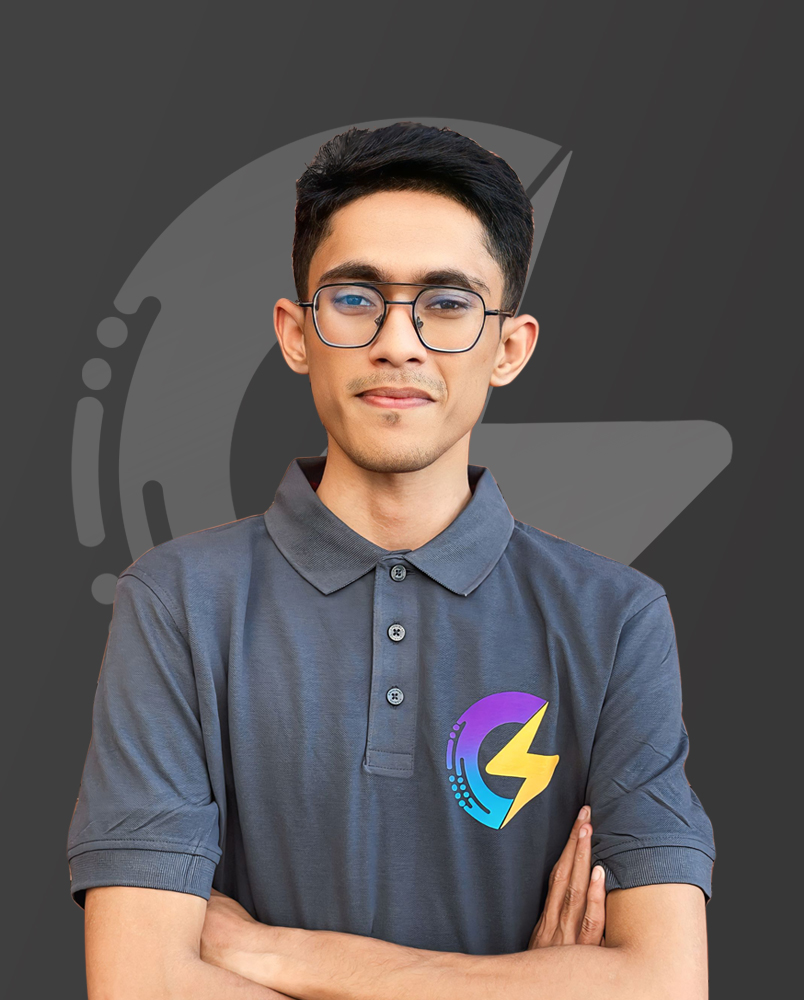
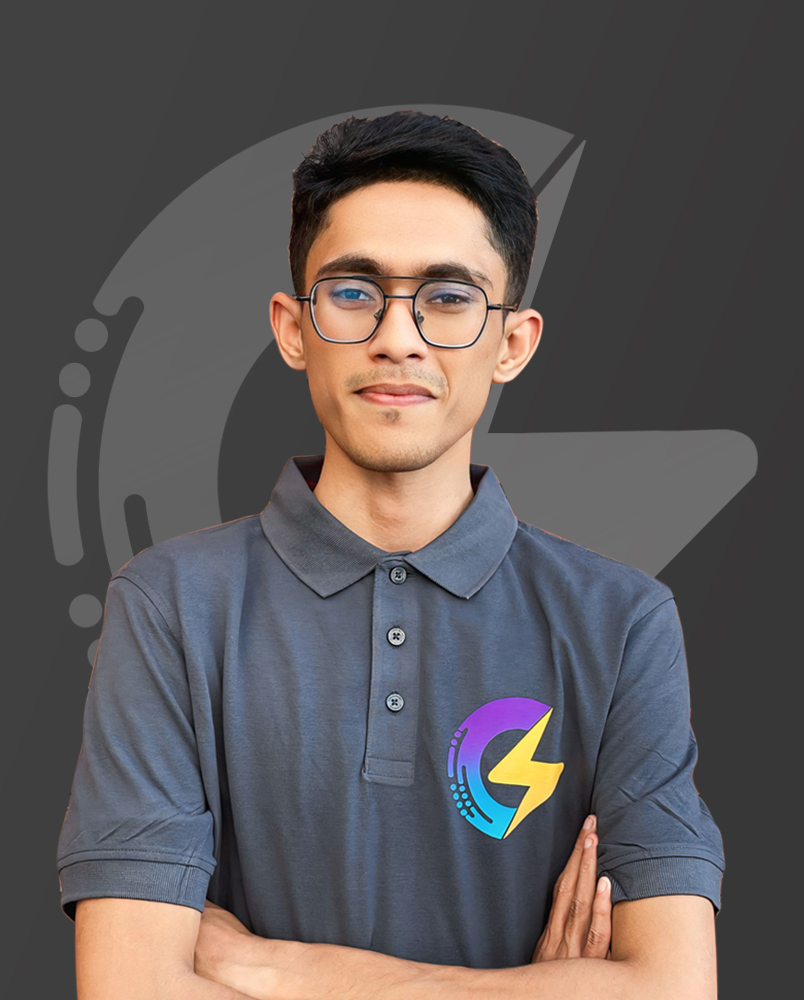
add hover gredient

diff --git a/src/components/ui/carousel.jsx b/src/components/ui/carousel.jsx
@@ -1,0 +1,193 @@
+import * as React from "react"
+import useEmblaCarousel from "embla-carousel-react";
+import { ArrowLeft, ArrowRight } from "lucide-react"
+
+import { cn } from "@/lib/utils"
+import { Button } from "@/components/ui/button"
+
+const CarouselContext = React.createContext(null)
+
+function useCarousel() {
+  const context = React.useContext(CarouselContext)
+
+  if (!context) {
+    throw new Error("useCarousel must be used within a <Carousel />")
+  }
+
+  return context
+}
+
+const Carousel = React.forwardRef((
+  {
+    orientation = "horizontal",
+    opts,
+    setApi,
+    plugins,
+    className,
+    children,
+    ...props
+  },
+  ref
+) => {
+  const [carouselRef, api] = useEmblaCarousel({
+    ...opts,
+    axis: orientation === "horizontal" ? "x" : "y",
+  }, plugins)
+  const [canScrollPrev, setCanScrollPrev] = React.useState(false)
+  const [canScrollNext, setCanScrollNext] = React.useState(false)
+
+  const onSelect = React.useCallback((api) => {
+    if (!api) {
+      return
+    }
+
+    setCanScrollPrev(api.canScrollPrev())
+    setCanScrollNext(api.canScrollNext())
+  }, [])
+
+  const scrollPrev = React.useCallback(() => {
+    api?.scrollPrev()
+  }, [api])
+
+  const scrollNext = React.useCallback(() => {
+    api?.scrollNext()
+  }, [api])
+
+  const handleKeyDown = React.useCallback((event) => {
+    if (event.key === "ArrowLeft") {
+      event.preventDefault()
+      scrollPrev()
+    } else if (event.key === "ArrowRight") {
+      event.preventDefault()
+      scrollNext()
+    }
+  }, [scrollPrev, scrollNext])
+
+  React.useEffect(() => {
+    if (!api || !setApi) {
+      return
+    }
+
+    setApi(api)
+  }, [api, setApi])
+
+  React.useEffect(() => {
+    if (!api) {
+      return
+    }
+
+    onSelect(api)
+    api.on("reInit", onSelect)
+    api.on("select", onSelect)
+
+    return () => {
+      api?.off("select", onSelect)
+    };
+  }, [api, onSelect])
+
+  return (
+    (<CarouselContext.Provider
+      value={{
+        carouselRef,
+        api: api,
+        opts,
+        orientation:
+          orientation || (opts?.axis === "y" ? "vertical" : "horizontal"),
+        scrollPrev,
+        scrollNext,
+        canScrollPrev,
+        canScrollNext,
+      }}>
+      <div
+        ref={ref}
+        onKeyDownCapture={handleKeyDown}
+        className={cn("relative", className)}
+        role="region"
+        aria-roledescription="carousel"
+        {...props}>
+        {children}
+      </div>
+    </CarouselContext.Provider>)
+  );
+})
+Carousel.displayName = "Carousel"
+
+const CarouselContent = React.forwardRef(({ className, ...props }, ref) => {
+  const { carouselRef, orientation } = useCarousel()
+
+  return (
+    (<div ref={carouselRef} className="overflow-hidden">
+      <div
+        ref={ref}
+        className={cn(
+          "flex",
+          orientation === "horizontal" ? "-ml-4" : "-mt-4 flex-col",
+          className
+        )}
+        {...props} />
+    </div>)
+  );
+})
+CarouselContent.displayName = "CarouselContent"
+
+const CarouselItem = React.forwardRef(({ className, ...props }, ref) => {
+  const { orientation } = useCarousel()
+
+  return (
+    (<div
+      ref={ref}
+      role="group"
+      aria-roledescription="slide"
+      className={cn(
+        "min-w-0 shrink-0 grow-0 basis-full",
+        orientation === "horizontal" ? "pl-4" : "pt-4",
+        className
+      )}
+      {...props} />)
+  );
+})
+CarouselItem.displayName = "CarouselItem"
+
+const CarouselPrevious = React.forwardRef(({ className, variant = "outline", size = "icon", ...props }, ref) => {
+  const { orientation, scrollPrev, canScrollPrev } = useCarousel()
+
+  return (
+    (<Button
+      ref={ref}
+      variant={variant}
+      size={size}
+      className={cn("absolute  h-8 w-8 rounded-full", orientation === "horizontal"
+        ? "-left-12 top-1/2 -translate-y-1/2"
+        : "-top-12 left-1/2 -translate-x-1/2 rotate-90", className)}
+      disabled={!canScrollPrev}
+      onClick={scrollPrev}
+      {...props}>
+      <ArrowLeft className="h-4 w-4" />
+      <span className="sr-only">Previous slide</span>
+    </Button>)
+  );
+})
+CarouselPrevious.displayName = "CarouselPrevious"
+
+const CarouselNext = React.forwardRef(({ className, variant = "outline", size = "icon", ...props }, ref) => {
+  const { orientation, scrollNext, canScrollNext } = useCarousel()
+
+  return (
+    (<Button
+      ref={ref}
+      variant={variant}
+      size={size}
+      className={cn("absolute h-8 w-8 rounded-full", orientation === "horizontal"
+        ? "-right-12 top-1/2 -translate-y-1/2"
+        : "-bottom-12 left-1/2 -translate-x-1/2 rotate-90", className)}
+      disabled={!canScrollNext}
+      onClick={scrollNext}
+      {...props}>
+      <ArrowRight className="h-4 w-4" />
+      <span className="sr-only">Next slide</span>
+    </Button>)
+  );
+})
+CarouselNext.displayName = "CarouselNext"
+
+export { Carousel, CarouselContent, CarouselItem, CarouselPrevious, CarouselNext };

diff --git a/src/components/Teams.jsx b/src/components/Teams.jsx
@@ -1,47 +1,39 @@
 const Teams = () => {
   const teams = [
-    {
-      id: 1,
-      picture: "sahid_withoutGlow.jpg",
-      name: "SAHID",
-    },
-    {
-      id: 2,
-      picture: "joyant_withoutGlow.jpg",
-      name: "JOYANT",
-    },
-
-    {
-      id: 4,
-      picture: "mumu_withoutGlow.jpg",
-      name: "MUMU",
-    },
-    {
-      id: 3,
-      picture: "abid_withoutGlow.jpg",
-      name: "ABID",
-    },
-    {
-      id: 5,
-      picture: "navid_withoutGlow.jpg",
-      name: "NAVID",
-    },
-    {
-      id: 6,
-      picture: "sumon_withoutGlow.jpg",
-      name: "SUMON",
-    },
+    { id: 1, picture: "sahid_withoutGlow.jpg", name: "SAHID" },
+    { id: 2, picture: "joyant_withoutGlow.jpg", name: "JOYANT" },
+    { id: 3, picture: "mumu_withoutGlow.jpg", name: "MUMU" },
+    { id: 4, picture: "abid_withoutGlow.jpg", name: "ABID" },
+    { id: 5, picture: "navid_withoutGlow.jpg", name: "NAVID" },
   ];
 
   return (
     <div>
-      <div className="grid grid-cols-6 gap-5 py-10 mx-10">
+      <div className="grid md:grid-cols-5 gap-5 py-10 px-10">
         {teams.map((team) => (
-          <div key={team.id}>
-            <img className=" rounded-2xl" src={team.picture} alt="ntg" />
-            <h1 className=" text-white text-center font-bold mt-2">{team.name}</h1>
+          <div
+            key={team.id}
+            className="relative group hover:scale-105 transition-all rounded-2xl overflow-hidden">
+            {/* Background image for hover */}
+            <div
+              className="absolute inset-0 bg-cover bg-center opacity-0 group-hover:opacity-100 transition-opacity duration-300"
+              style={{
+                backgroundImage: `url(${team.picture.replace(
+                  "_withoutGlow",
+                  "_withGlow"
+                )})`,
+              }}>
+                <h1>{team.name}</h1>
+              </div>
+
+            <img
+              className="relative rounded-2xl group-hover:opacity-0 transition-opacity duration-300"
+              src={team.picture}
+              alt={team.name}
+            />
           </div>
         ))}
+        
       </div>
     </div>
   );

diff --git a/src/components/ui/button.jsx b/src/components/ui/button.jsx
@@ -1,0 +1,47 @@
+import * as React from "react"
+import { Slot } from "@radix-ui/react-slot"
+import { cva } from "class-variance-authority";
+
+import { cn } from "@/lib/utils"
+
+const buttonVariants = cva(
+  "inline-flex items-center justify-center gap-2 whitespace-nowrap rounded-md text-sm font-medium ring-offset-white transition-colors focus-visible:outline-none focus-visible:ring-2 focus-visible:ring-slate-950 focus-visible:ring-offset-2 disabled:pointer-events-none disabled:opacity-50 [&_svg]:pointer-events-none [&_svg]:size-4 [&_svg]:shrink-0 dark:ring-offset-slate-950 dark:focus-visible:ring-slate-300",
+  {
+    variants: {
+      variant: {
+        default: "bg-slate-900 text-slate-50 hover:bg-slate-900/90 dark:bg-slate-50 dark:text-slate-900 dark:hover:bg-slate-50/90",
+        destructive:
+          "bg-red-500 text-slate-50 hover:bg-red-500/90 dark:bg-red-900 dark:text-slate-50 dark:hover:bg-red-900/90",
+        outline:
+          "border border-slate-200 bg-white hover:bg-slate-100 hover:text-slate-900 dark:border-slate-800 dark:bg-slate-950 dark:hover:bg-slate-800 dark:hover:text-slate-50",
+        secondary:
+          "bg-slate-100 text-slate-900 hover:bg-slate-100/80 dark:bg-slate-800 dark:text-slate-50 dark:hover:bg-slate-800/80",
+        ghost: "hover:bg-slate-100 hover:text-slate-900 dark:hover:bg-slate-800 dark:hover:text-slate-50",
+        link: "text-slate-900 underline-offset-4 hover:underline dark:text-slate-50",
+      },
+      size: {
+        default: "h-10 px-4 py-2",
+        sm: "h-9 rounded-md px-3",
+        lg: "h-11 rounded-md px-8",
+        icon: "h-10 w-10",
+      },
+    },
+    defaultVariants: {
+      variant: "default",
+      size: "default",
+    },
+  }
+)
+
+const Button = React.forwardRef(({ className, variant, size, asChild = false, ...props }, ref) => {
+  const Comp = asChild ? Slot : "button"
+  return (
+    (<Comp
+      className={cn(buttonVariants({ variant, size, className }))}
+      ref={ref}
+      {...props} />)
+  );
+})
+Button.displayName = "Button"
+
+export { Button, buttonVariants }

diff --git a/src/components/Hero.jsx b/src/components/Hero.jsx
@@ -31,7 +31,7 @@ const Hero = () => {
       </div>
       <div className="flex md:mt-10 mt-5 items-center justify-center">
         <div className="rounded-full bg-gradient-to-r from-[#FFB16B] to-[#996A40] md:p-3 p-2 text-white">
-          <p className="font-semibold text-black">Meet Our Awesome Team</p>
+          <p className="font-semibold text-black">Meet Our Founders</p>
         </div>
       </div>
     </div>
